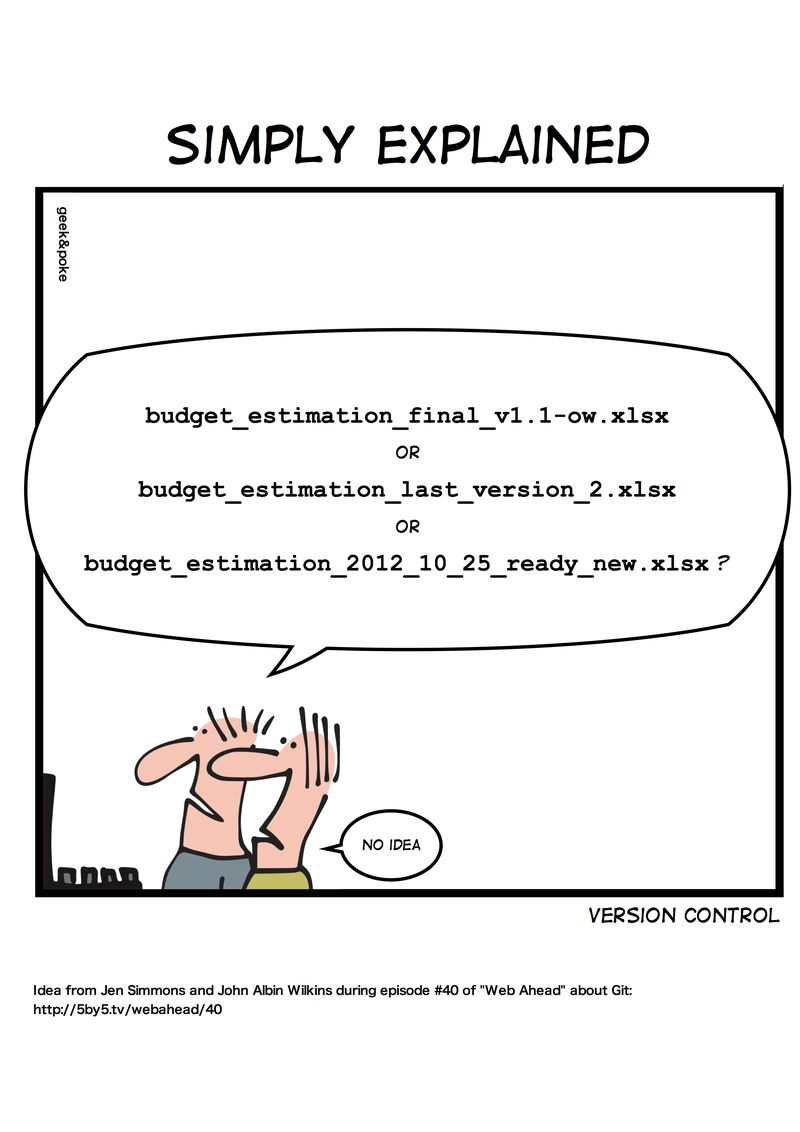
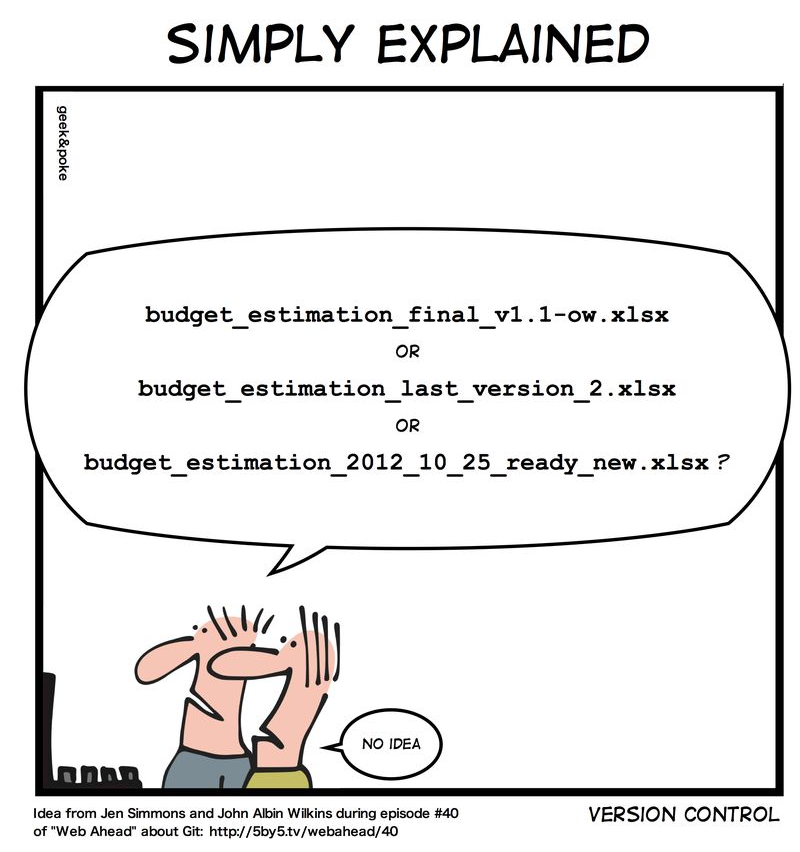
Pimp Slides
Design is not perfect, but requires content to be finished.

1. I contributed a custom IEEE Student Branch Logo (based on ![IEEE
Student Branch Gent](http://www.student.ugent.be/ieee/), because branch
Graz does not have one and there is no official generic Student branch
logo)
2. `schöner machen`: The main problem IMHO is a lack of content. But
text on the other hand distracts the listeners. I added some simple,
short sentences to explain why git is part of your business.
3. I split the slides and resized the image properly.
4. I fell back to HTML and fixed it with HTML & CSS. Hopefully, this
does not break your workflow.
5. Same as previous

No further action planned until Wednesday.

diff --git a/index.html b/index.html
@@ -171,6 +171,7 @@ class: center, middle
 
 # Agenda für Workshop
 
+<img alt="IEEE Student Branch Graz" src="includes/ieee_graz.png" style="float:right" />
 IEEE Student Branch Graz / 24.01.2018
 
 1. Vorstellungsrunde
@@ -188,10 +189,15 @@ TODO: Bild von IEEE Student Branch (Graz) + SynPro Solutions schön unterbringen
 
 .center[<a href="https://synpro.solutions/">![SynPro Solutions](includes/synpro.png)</a>]
 
-* Darshaka Pathirana: Git-User seit 2009
-* Michael Prokop: Git-User seit 2006
+<table>
+<tr><td><strong>Darshaka Pathirana:</strong></td><td>Git-User seit 2009</td></tr>
+<tr><td><strong>Michael Prokop:</strong</td><td>Git-User seit 2006</td></tr>
+</table>
 
 Wir bieten Systemadministration und -integration für KMUs (Schwerpunkt Linux) an.
+Heterogene Umgebungen gehören aber zu unserem Alltag.
+
+Wir arbeiten mit Software. Software gehört versioniert.
 Git verwenden wir täglich und ist für uns unverzichtbar.
 
 ???
@@ -207,7 +213,15 @@ TODO: schöner machen :)
 * Warum willst du Git verwenden?
 * Was erwartest du dir vom Workshop?
 
-.center[<a href="http://geek-and-poke.com/?offset=1352247302000">![*](includes/geek-and-poke_version-control.png)</a>]
+---
+
+# Einfach erklärt
+
+<div style="text-align:center;position:absolute;width:80%;height:100%">
+  <a href="http://geek-and-poke.com/?offset=1352247302000">
+    <img src="includes/geek-and-poke_version-control.png" alt="Geek &amp; Poke Comic: Version control" style="height:80%" />
+  </a>
+</div>
 
 ???
 
@@ -249,7 +263,7 @@ Optionen zur Installation:
 
 # Mac OS #1: Git via X-Code
 
-Wer X-Code hat bekommt git mitgeliefert (`/usr/bin/git`):
+Wer X-Code hat, bekommt git mitgeliefert (`/usr/bin/git`):
 
 ```bash
 % git version
@@ -275,10 +289,10 @@ git version 2.10.1 (Apple Git-78)
 
 `dmg` von https://git-scm.com/download/mac runterladen.
 
-Hinweis: unter 'Security &amp; Privay' -&gt; 'Allow apps downloaded from' Installation erlauben
+Hinweis: unter 'Security &amp; Privacy' → 'Allow apps downloaded from' Installation erlauben
 
-- Vorteil: benötigt sonst nichts spezielles
-- Nachteil: keine Paketmanager-Integration (z.B. für Updates)
+- **Vorteil:** benötigt sonst nichts Spezielles
+- **Nachteil:** keine Paketmanager-Integration (z.B. für Updates)
 
 ---
 
@@ -295,8 +309,8 @@ Brew? Siehe https://docs.brew.sh/Installation.html:
  "$(curl -fsSL https://raw.githubusercontent.com/Homebrew/install/master/install)"
 ```
 
-- Vorteil: Paketmanager-Integration
-- Nachteil: benötigt xcode bzw. xcode command line tools (`xcode-select --install`)
+- **Vorteil:** Paketmanager-Integration
+- **Nachteil:** benötigt xcode bzw. xcode command line tools (`xcode-select --install`)
 
 ---
 
@@ -348,7 +362,7 @@ Je nach Distribution:
 ## Multiuser-Szenario/Advanced Szenarien(?)
 
 * Repository anlegen (playground-group##) + clonen
-* Mehrere Leute arbeiten gemeinsam (index.html + author1.html + author2.html)
+* Mehrere Leute arbeiten gemeinsam (`index.html` + `author1.html` + `author2.html`)
 
 ???
 
@@ -429,7 +443,7 @@ Mac hat Keychain-Integration
 % $EDITOR README.md
 ```
 
-```
+```markdown
 My Project
 ==========
 
@@ -439,37 +453,31 @@ when an unkonwn(sic!) printer took a galley of type and scrambled it to make
 a type specimen book.
 ```
 
-???
-
-TODO: Formatierung vom Text schaut meh aus
-
 ---
 
 # Lokales Repository anlegen
 
-```bash
-% git init
+<pre><code class="plain hljs remark-code"><span class="hljs-string">% git init</span>
 Initialized empty Git repository in /home/synpro/my-project/.git/
-% git status
+<span class="hljs-string">% git status</span>
 On branch master
 
 Initial commit
 
 Untracked files:
-  (use "git add <file>..." to include in what will be committed)
+  (use "git add &lt;file&gt;..." to include in what will be committed)
 
         README.md
 
 nothing added to commit but untracked files present (use "git add" to track)
-```
+</code></pre>
 
 ---
 
 # Datei dem Repository hinzufügen 1/3
 
-```bash
-% git add README.md
-% git status
+<pre><code class="plain hljs remark-code"><span class="hljs-string">% git add README.md</span>
+<span class="hljs-string">% git status</span>
 On branch master
 
 Initial commit
@@ -478,8 +486,8 @@ Changes to be committed:
   (use "git rm --cached <file>..." to unstage)
 
         new file:   README.md
-%
-```
+<span class="hljs-string">%</span>
+</code></pre>
 
 ---
 
@@ -514,45 +522,41 @@ index 0000000..adcfe46
 
 # Datei dem Repository hinzufügen 3/3
 
-```bash
-% git commit -v README.md
+<pre><code class="plain hljs remark-code"><span class="hljs-string">% git commit -v README.md</span>
 [master (root-commit) 79d5760] Add initial README.md
  1 file changed, 7 insertions(+)
  create mode 100644 README.md
-% git status
+<span class="hljs-string">% git status</span>
 On branch master
 nothing to commit, working tree clean
-```
+</code></pre>
 
 ---
 
 # Historie - was wurde bisher gemacht?
 
-```bash
-% git log
+<pre><code class="plain hljs remark-code"><span class="hljs-string">% git log</span>
 commit 79d5760c1051cbe450ce49b6614a18cba2a82bb1
-Author: Michael Prokop <michael.prokop@synpro-solutions.com>
+Author: Michael Prokop &lt;michael.prokop@synpro-solutions.com&gt;
 Date:   Fri Jan 12 11:05:58 2018 +0100
 
     Add initial README.md
-```
+</code></pre>
 
 *Tipp*: Ausgabe-Format lässt sich anpassen, z.B.:
 
-```bash
-% git log --oneline
+<pre><code class="plain hljs remark-code hljs-string">% git log --oneline
 % git log --stat
 % git log --pretty="format:%h %s (%cr)"
-```
+</code></pre>
 
 ---
 
 # Wie schaut der letzte Commit aus?
 
-```bash
-% git show
+<pre><code class="plain hljs remark-code"><span class="hljs-string">% git show</span>
 commit 79d5760c1051cbe450ce49b6614a18cba2a82bb1
-Author: Michael Prokop <michael.prokop@synpro-solutions.com>
+Author: Michael Prokop &lt;michael.prokop@synpro-solutions.com&gt;
 Date:   Fri Jan 12 11:05:58 2018 +0100
 
     Add initial README.md
@@ -570,49 +574,43 @@ index 0000000..adcfe46
 +Lorem Ipsum has been the industry's standard dummy text ever since the 1500s,
 +when an unkonwn(sic!) printer took a galley of type and scrambled it to make
 +a type specimen book.
-```
+</code></pre>
 
 ---
 
 # Weiterarbeiten, Typo fixen!
 
-```bash
-% $EDITOR README.md
-% git diff
-diff --git a/README.md b/README.md
+<pre><code class="plain hljs remark-code"><span class="hljs-string">% $EDITOR README.md</span>
+<span class="hljs-string">% git diff</span>
+<strong>diff --git a/README.md b/README.md
 index adcfe46..45f0920 100644
 --- a/README.md
-+++ b/README.md
-@@ -3,5 +3,5 @@ My Project
++++ b/README.md</strong>
+<span style="color:#00e5ee">@@ -3,5 +3,5 @@</span> My Project
 
  Lorem Ipsum is simply dummy text of the printing and typesetting industry.
  Lorem Ipsum has been the industry's standard dummy text ever since the 1500s,
--when an unkonwn(sic!) printer took a galley of type and scrambled it to make
-+when an unknown printer took a galley of type and scrambled it to make
+<span style="color:red">-when an unkonwn(sic!) printer took a galley of type and scrambled it to make</span>
+<span style="color:#00AA00">+when an unknown printer took a galley of type and scrambled it to make</span>
  a type specimen book.
-```
-
-???
-
-TODO: diff wird nicht so angezeigt wie es in der Shell aussieht
+</code></pre>
 
 ---
 
 # Besseres diff (manchmal zumindest :))!
 
-```
-% git diff --word-diff
-diff --git a/README.md b/README.md
+<pre><code class="plain hljs remark-code"><span class="hljs-string">% git diff --word-diff</span>
+<strong>diff --git a/README.md b/README.md
 index adcfe46..45f0920 100644
 --- a/README.md
-+++ b/README.md
-@@ -3,5 +3,5 @@ My Project
++++ b/README.md</strong>
+<span style="color:#00e5ee">@@ -3,5 +3,5 @@</span> My Project
 
 Lorem Ipsum is simply dummy text of the printing and typesetting industry.
 Lorem Ipsum has been the industry's standard dummy text ever since the 1500s,
-when an [-unkonwn(sic!)-]{+unknown+} printer took a galley of type and scrambled it to make
+when an <span style="color:red">[-unkonwn(sic!)-]</span><span style="color:#0A0">{+unknown+}</span> printer took a galley of type and scrambled it to make
 a type specimen book.
-```
+</code></pre>
 
 ---
 
